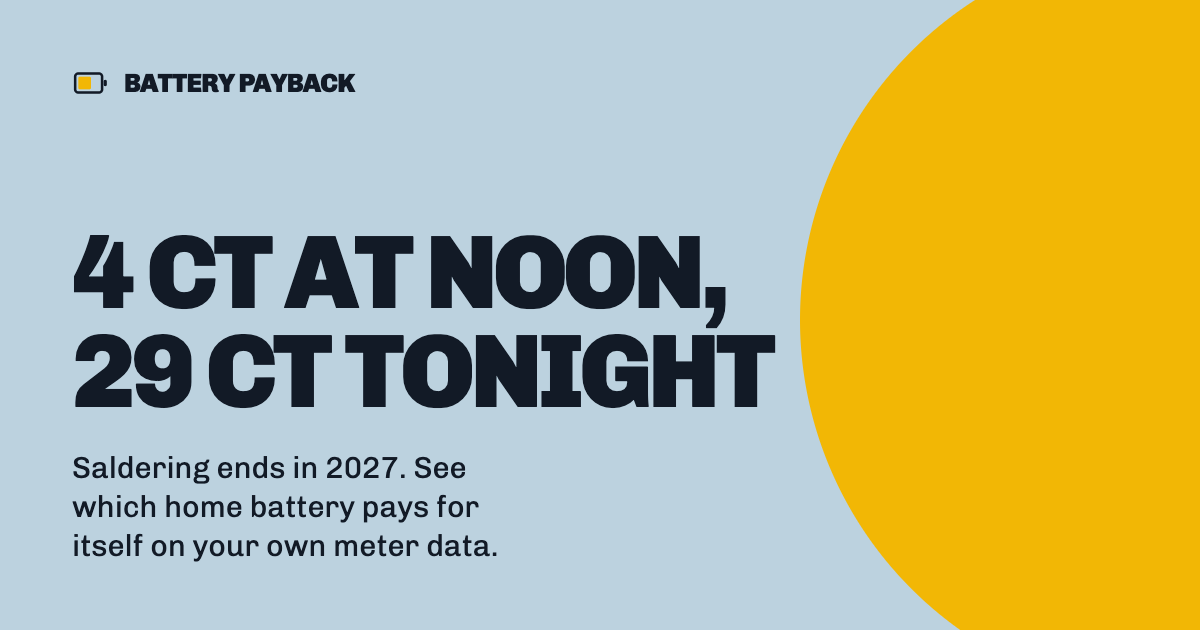
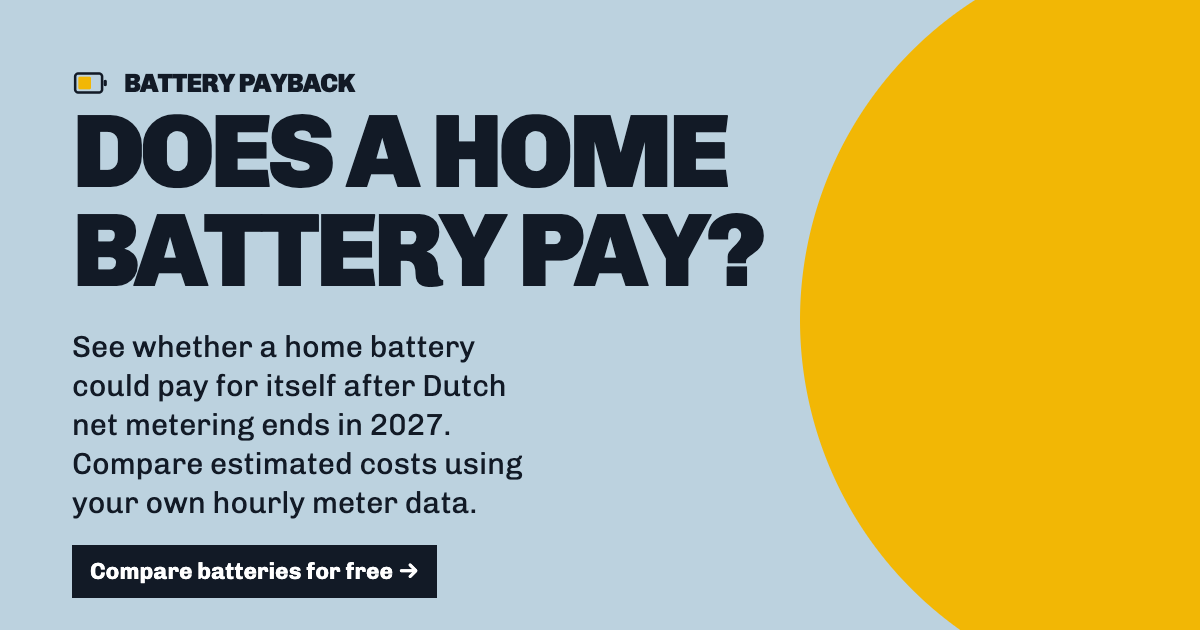
Improve social sharing preview

Changed region(s): [[0.0617, 0.3317, 0.6475, 0.6937], [0.0617, 0.7238, 0.4317, 0.9651], [0.0617, 0.181, 0.6167, 0.3016]]

diff --git a/index.html b/index.html
@@ -3,8 +3,8 @@
 <head>
   <meta charset="utf-8">
   <meta name="viewport" content="width=device-width, initial-scale=1">
-  <title>Battery Payback</title>
-  <meta name="description" content="Which home battery pays for itself on your own hourly meter data, once saldering ends in 2027.">
+  <title>Home Battery Payback: Compare Costs With Your Data</title>
+  <meta name="description" content="See whether a home battery could pay for itself after Dutch net metering ends in 2027. Compare estimated costs using your own hourly meter data.">
   <link rel="icon" href="/favicon.ico" sizes="32x32">
   <link rel="icon" href="/favicon.svg" type="image/svg+xml">
   <link rel="apple-touch-icon" href="/apple-touch-icon.png">
@@ -12,15 +12,19 @@
   <link rel="canonical" href="%SITE_URL%/">
   <meta property="og:type" content="website">
   <meta property="og:site_name" content="Battery Payback">
-  <meta property="og:title" content="Battery Payback: 4 ct at noon, 29 ct tonight">
-  <meta property="og:description" content="Saldering ends in 2027. See which home battery pays for itself on your own hourly meter data.">
+  <meta property="og:title" content="Home Battery Payback: Compare Costs With Your Data">
+  <meta property="og:description" content="See whether a home battery could pay for itself after Dutch net metering ends in 2027. Compare estimated payback using your own hourly meter data.">
   <meta property="og:url" content="%SITE_URL%/">
   <meta property="og:image" content="%SITE_URL%/og-image.png">
   <meta property="og:image:width" content="1200">
   <meta property="og:image:height" content="630">
-  <meta property="og:image:alt" content="Battery Payback: 4 ct at noon, 29 ct tonight, next to a large yellow sun.">
+  <meta property="og:image:alt" content="Battery Payback compares home battery payback using your own hourly meter data. Try the free calculator.">
   <meta property="og:locale" content="en_GB">
   <meta name="twitter:card" content="summary_large_image">
+  <meta name="twitter:title" content="Home Battery Payback: Compare Costs With Your Data">
+  <meta name="twitter:description" content="See whether a home battery could pay for itself after Dutch net metering ends in 2027, using your own hourly meter data.">
+  <meta name="twitter:image" content="%SITE_URL%/og-image.png">
+  <meta name="twitter:image:alt" content="Battery Payback compares home battery payback using your own hourly meter data. Try the free calculator.">
   <link rel="preconnect" href="https://fonts.googleapis.com">
   <link rel="preconnect" href="https://fonts.gstatic.com" crossorigin>
   <link rel="stylesheet" href="https://fonts.googleapis.com/css2?family=Chivo:wght@400;700;900&display=swap">

diff --git a/scripts/og/og-image.html b/scripts/og/og-image.html
@@ -19,6 +19,7 @@
   .brand .tip { fill: #121a26; stroke: none; }
   h1 { position: relative; margin: auto 0 0; font-size: 104px; line-height: .95; font-weight: 900; text-transform: uppercase; letter-spacing: -0.045em; }
   p { position: relative; margin: 28px 0 0; font-size: 30px; line-height: 1.3; max-width: 26ch; }
+  .cta { position: relative; display: inline-block; align-self: flex-start; margin-top: 22px; padding: 13px 18px; background: #121a26; color: #fff; font-size: 23px; line-height: 1.2; font-weight: 700; }
 </style>
 </head>
 <body>
@@ -27,7 +28,8 @@
     <svg viewBox="0 0 24 24"><rect x="2" y="6" width="17" height="12" rx="2"/><rect class="tip" x="20" y="10" width="2" height="4" rx="1"/><rect class="fill" x="4" y="8" width="8" height="8" rx="1"/></svg>
     Battery payback
   </div>
-  <h1>4 ct at noon,<br>29 ct tonight</h1>
-  <p>Saldering ends in 2027. See which home battery pays for itself on your own meter data.</p>
+  <h1>Does a home<br>battery pay?</h1>
+  <p>See whether a home battery could pay for itself after Dutch net metering ends in 2027. Compare estimated costs using your own hourly meter data.</p>
+  <div class="cta">Compare batteries for free →</div>
 </body>
 </html>
